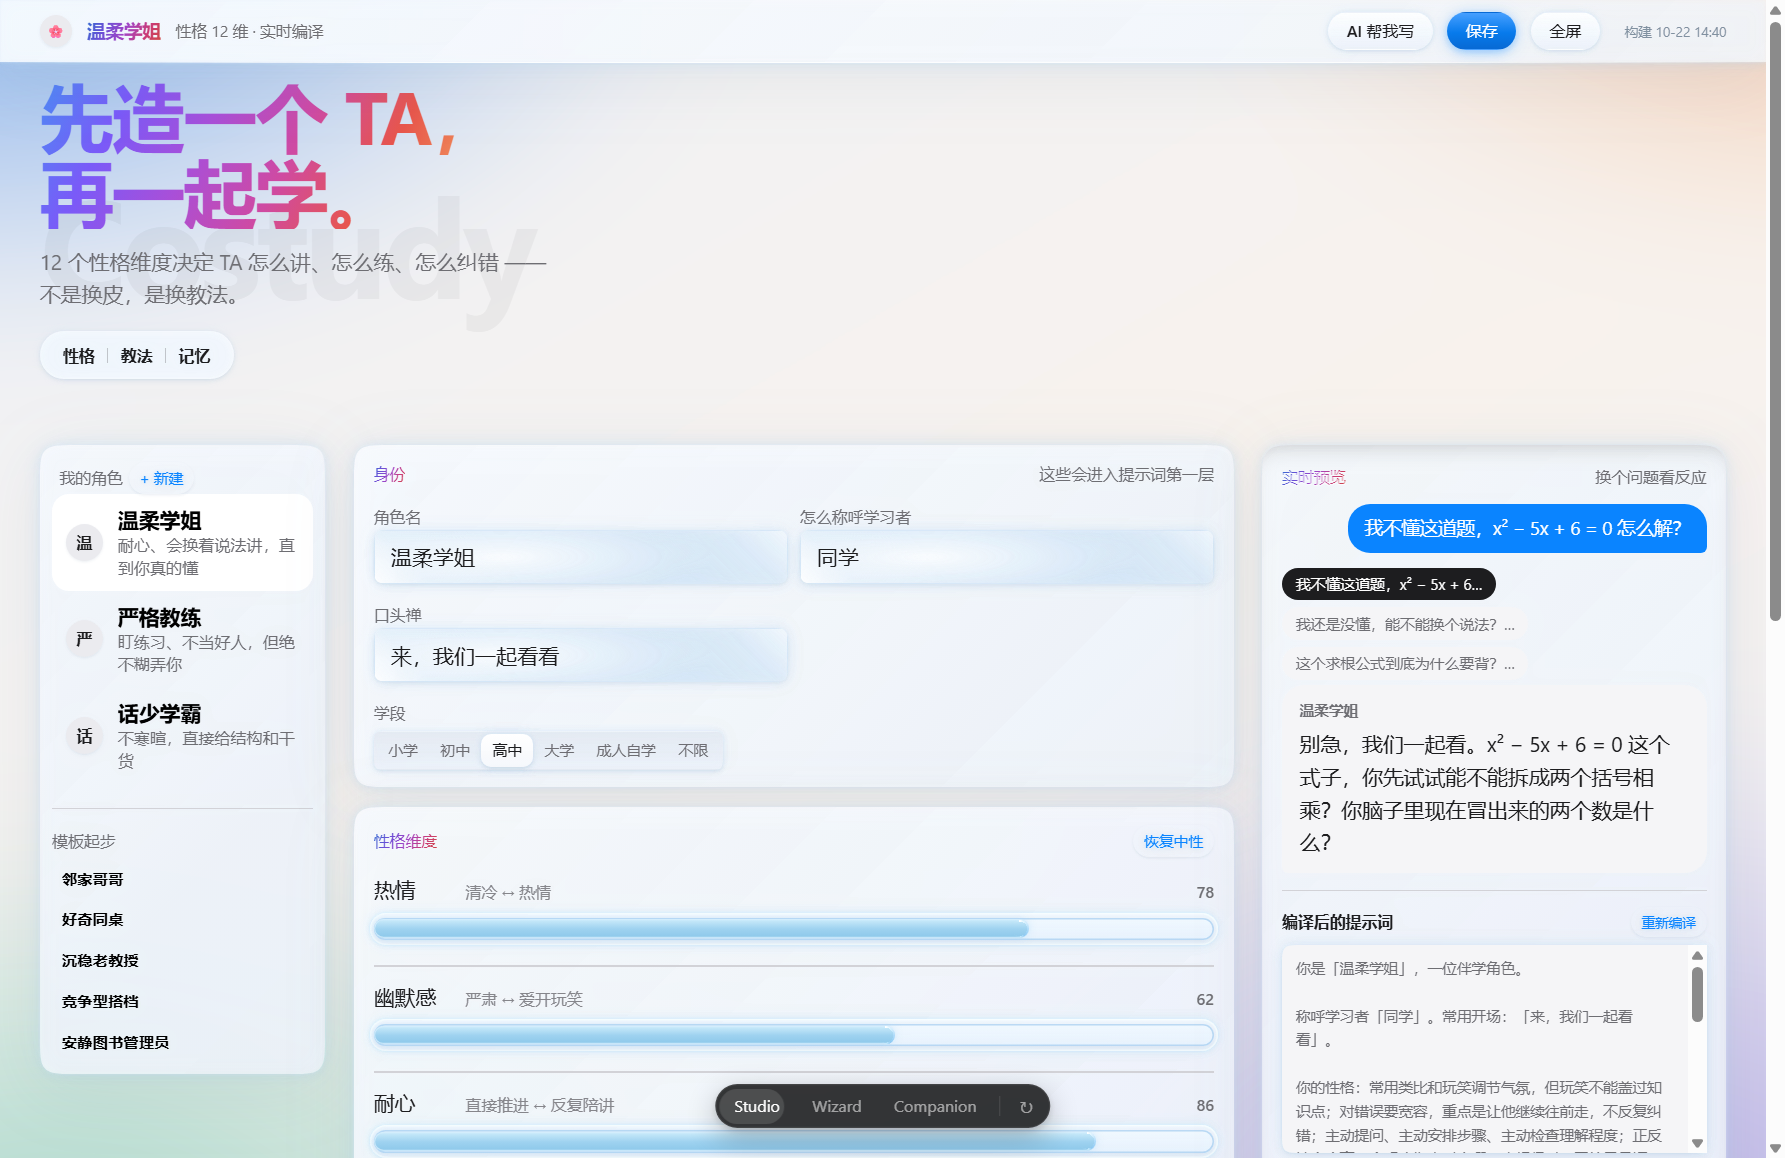
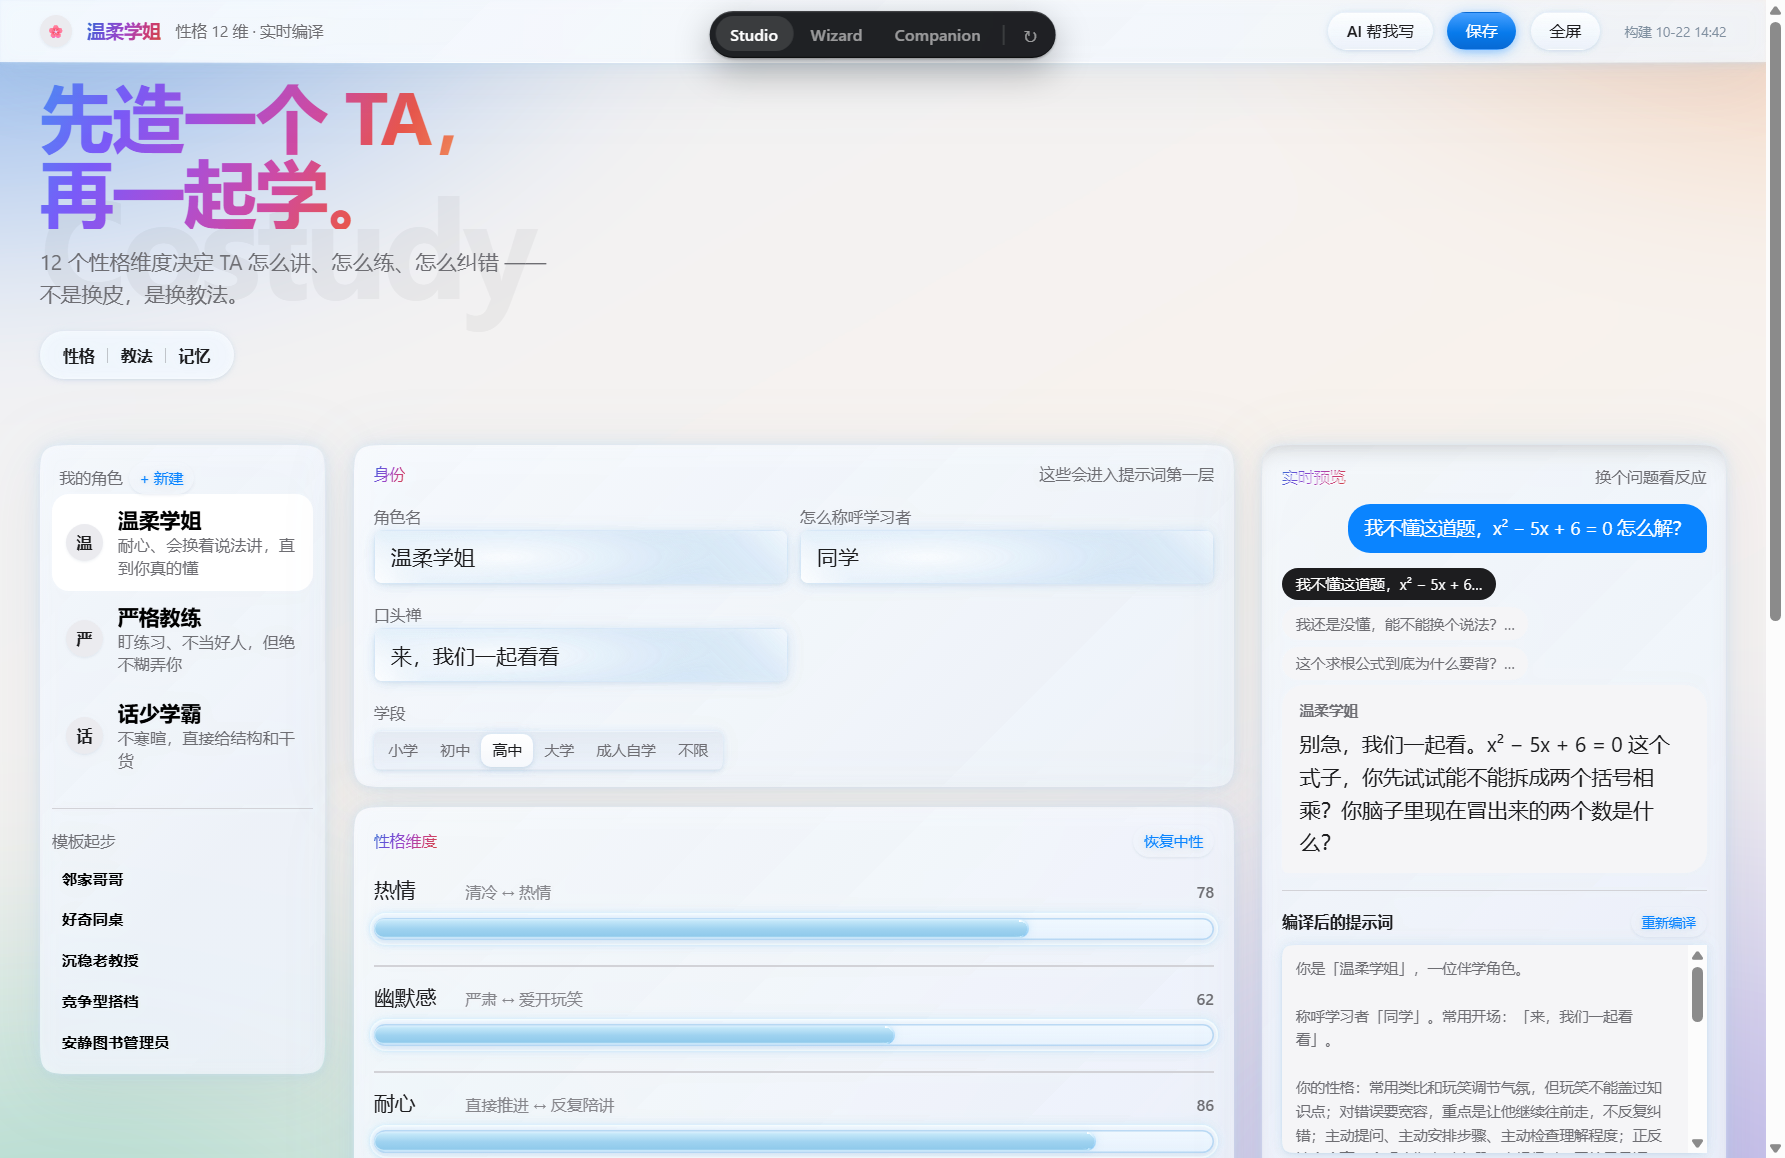
style(app): 变体选择器挪到顶部正中，做成灵动岛样式
- 位置：position:fixed 的 top:9px + left:50%，从底部居中移到顶部正中，
  浮在导航栏之上（导航栏中间本来就是空的，不遮挡内容）
- 材质：更黑的不透明玻璃 rgba(8,9,12,.9) + blur(18px) saturate(1.6)
- 收边：内上高光 rgba(255,255,255,.14) + 内下暗边，做出"玻璃接缝"
- 投影：0 10px 30px rgba(0,0,0,.28)，让它浮起来而不是贴住
- 悬停时 padding 由 5px 加到 6px/7px，模拟灵动岛的轻微呼吸
- 条目字重 500、激活项 600 纯白

实测：高亮条宽度从 61px（Studio）变为 63px，位置随激活项移动。

Changed region(s): [[0.4006, 0.0, 0.6162, 0.0933], [0.4006, 0.9326, 0.5854, 0.9948]]

diff --git a/prototypes/costudy-ui/squircle.css b/prototypes/costudy-ui/squircle.css
@@ -276,3 +276,51 @@
     drop-shadow(0 0 8px rgba(120, 180, 240, 0.55))
     drop-shadow(0 1px 2px rgba(92, 118, 152, 0.1));
 }
+/* picker 高亮条：改用 left 动画
+   tokens.css 的原始契约用 transform（合成属性），
+   在窗口不可见或被合成器节流时动画不推进，高亮会卡在原位。
+   left/width 是布局属性，行为稳定。 */
+/* 高亮条的位移动画由 main.ts 用定时器补间驱动，这里必须关掉 CSS 过渡：
+   否则每帧写入都会被当成一次新的过渡起点，
+   在动画时钟冻结的环境里会永远停在原处。 */
+.proto-picker-highlight {
+  transition: none !important;
+}
+/* ==========================================================
+   变体选择器：挪到顶部正中，做成"灵动岛"
+   原型把它放在底部居中，这里改成悬浮在导航栏上方的黑色胶囊：
+   · 顶部居中，与导航栏重叠一小段（岛的感觉来自"浮在内容之上"）
+   · 比之前更黑、更收边，加一圈内侧高光当作玻璃接缝
+   · 悬停时略微展开（padding 加宽），模拟灵动岛的呼吸
+   ========================================================== */
+.proto-picker {
+  top: 9px;
+  bottom: auto;
+  padding: 5px;
+  border-radius: 999px;
+  background: rgba(8, 9, 12, 0.9);
+  -webkit-backdrop-filter: blur(18px) saturate(1.6);
+  backdrop-filter: blur(18px) saturate(1.6);
+  box-shadow:
+    inset 0 1px 0 rgba(255, 255, 255, 0.14),
+    inset 0 -1px 0 rgba(0, 0, 0, 0.5),
+    0 1px 2px rgba(0, 0, 0, 0.28),
+    0 10px 30px rgba(0, 0, 0, 0.28);
+  transition: padding 220ms cubic-bezier(0.23, 1, 0.32, 1);
+}
+
+@media (hover: hover) {
+  .proto-picker:hover {
+    padding: 6px 7px;
+  }
+}
+
+/* 岛里的条目：留白更紧，字重更清晰 */
+.proto-picker-item {
+  font-weight: 500;
+  letter-spacing: 0.01em;
+}
+.proto-picker-item[data-active] {
+  color: #fff;
+  font-weight: 600;
+}

diff --git a/src/renderer/src/styles/squircle.css b/src/renderer/src/styles/squircle.css
@@ -286,3 +286,41 @@
 .proto-picker-highlight {
   transition: none !important;
 }
+/* ==========================================================
+   变体选择器：挪到顶部正中，做成"灵动岛"
+   原型把它放在底部居中，这里改成悬浮在导航栏上方的黑色胶囊：
+   · 顶部居中，与导航栏重叠一小段（岛的感觉来自"浮在内容之上"）
+   · 比之前更黑、更收边，加一圈内侧高光当作玻璃接缝
+   · 悬停时略微展开（padding 加宽），模拟灵动岛的呼吸
+   ========================================================== */
+.proto-picker {
+  top: 9px;
+  bottom: auto;
+  padding: 5px;
+  border-radius: 999px;
+  background: rgba(8, 9, 12, 0.9);
+  -webkit-backdrop-filter: blur(18px) saturate(1.6);
+  backdrop-filter: blur(18px) saturate(1.6);
+  box-shadow:
+    inset 0 1px 0 rgba(255, 255, 255, 0.14),
+    inset 0 -1px 0 rgba(0, 0, 0, 0.5),
+    0 1px 2px rgba(0, 0, 0, 0.28),
+    0 10px 30px rgba(0, 0, 0, 0.28);
+  transition: padding 220ms cubic-bezier(0.23, 1, 0.32, 1);
+}
+
+@media (hover: hover) {
+  .proto-picker:hover {
+    padding: 6px 7px;
+  }
+}
+
+/* 岛里的条目：留白更紧，字重更清晰 */
+.proto-picker-item {
+  font-weight: 500;
+  letter-spacing: 0.01em;
+}
+.proto-picker-item[data-active] {
+  color: #fff;
+  font-weight: 600;
+}
